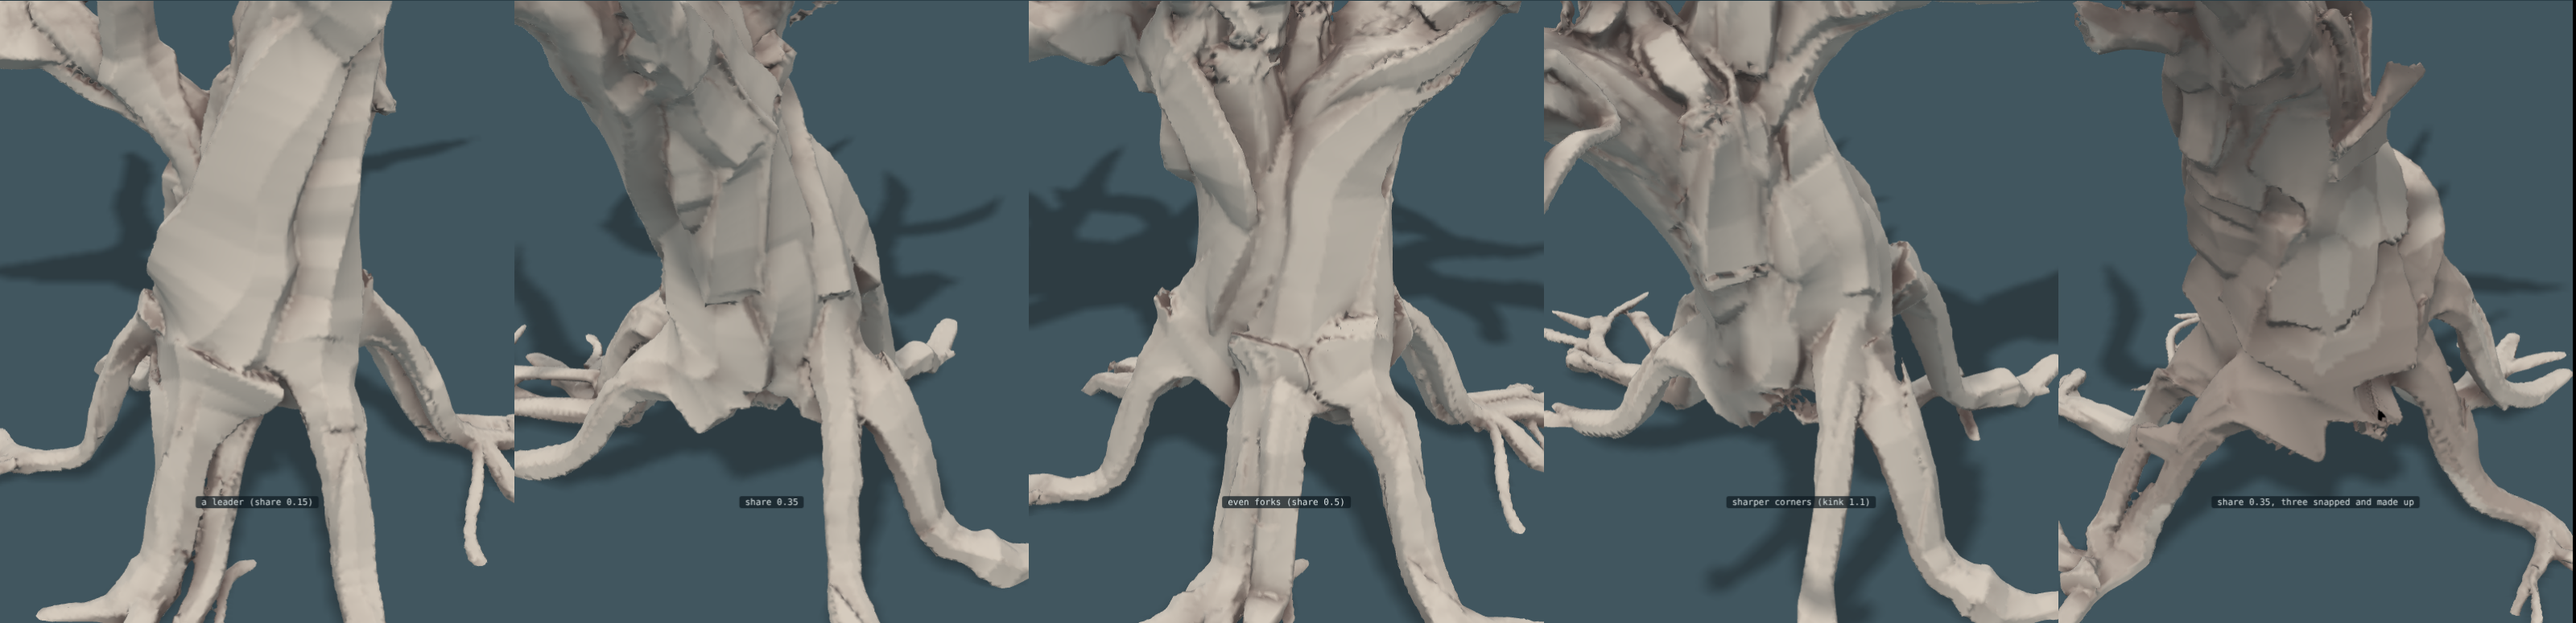
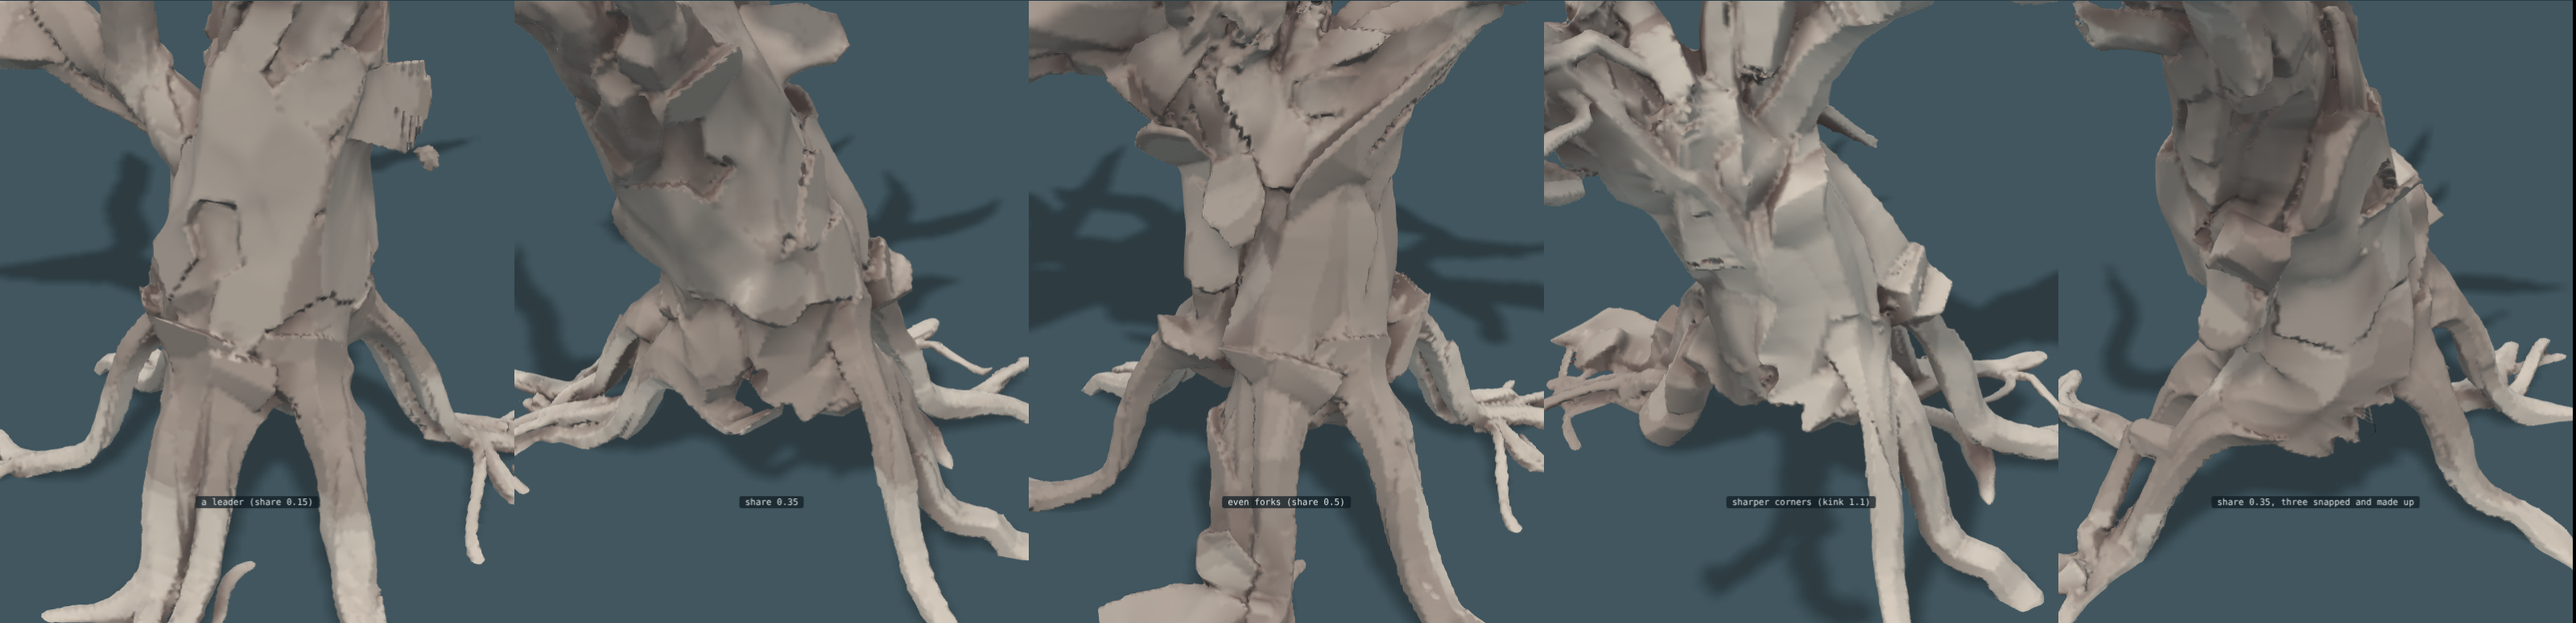
The knee pushed out, bark on the roots, and bark sized to the tree it grows on
Claude-Session: https://claude.ai/code/session_0192rgp75jGkttZXf7hEakip

diff --git a/sketch/page7.js b/sketch/page7.js
@@ -186,7 +186,8 @@
             e = Math.min(e, H(x - a[0] - bx * tt, y - a[1] - by * tt, z - a[2] - bz * tt) - (a[3] + (b[3] - a[3]) * tt)); } dd = smin(dd, e, 0.012); }
         return Math.max(dd, H(x - c[0], y - c[1], z - c[2]) - R * 0.99, (x - c[0]) * d[0] + (y - c[1]) * d[1] + (z - c[2]) * d[2] - 0.6 * R); };
       all.push({ f, C: [c], reach: [R + 0.02], layer: 4 }); count.scars++; }
-    const BK = recipe.bare || recipe.bark === 0 ? null : Object.assign({ cell: 0.075, stretch: 1.6, cover: 0.4, percolate: 0.985, cohere: 0.6, least: 10, thick: 0.02, peel: 0.08 }, recipe.bark || {}), rb = rng((recipe.seed || 1) + 123);
+    const bs = Math.min(1, (recipe.trunk && recipe.trunk[0] ? recipe.trunk[0][3] : 0.27) / 0.27);
+    const BK = recipe.bare || recipe.bark === 0 ? null : Object.assign({ cell: 0.075 * bs, stretch: 1.6, cover: 0.4, percolate: 0.985, cohere: 0.6, least: 10, thick: 0.02 * bs, peel: 0.08 }, recipe.bark || {}), rb = rng((recipe.seed || 1) + 123);
     // which pieces are near which place, so that only those are asked
     const cell = 0.12, grid = new Map(), key = (x, y, z) => (x + 64) * 16384 + (y + 64) * 128 + z + 64;
     const index = (i) => { const s = all[i], seen = new Set(); s.C.forEach((c, j) => { const m = s.reach[j] + 0.06;
@@ -199,7 +200,8 @@
       // tears: distance from a cell's point is counted short along its strand's direction. No point is nearer
       // another than a cell's width, so counted.
       const sp = BK.cell, st = BK.stretch, P = [], gs = Math.max(0.1, sp * st), sgrid = new Map(), skey = (x, y, z) => (Math.floor(x / gs) + 512) * 1048576 + (Math.floor(y / gs) + 512) * 1024 + Math.floor(z / gs) + 512, cand = [];
-      for (const q of t.strands) if (!q.thread) for (let i = q.root + 1; i < q.K - 1; i++) if (q.rho[i] > 0.012) { const bar = i < q.root + 5 || q.rho[i] <= 0.02 || q.far[i] <= 0.9 * q.rho[i] ? 1 : 0; const T = tan(q, i), sv = unit(cross(T, q.O[i])); for (const e of [-0.8, 0, 0.8]) { let n = [0, 1, 2].map((c) => q.O[i][c] * (q.far[i] + 0.8 * q.rho[i]) + sv[c] * e * q.rho[i]); const al = dot(n, T); n = unit(n.map((v, c) => v - T[c] * al)); cand.push([0, 1, 2].map((c) => q.X[i * 3 + c] + (q.O[i][c] * 0.8 + sv[c] * e) * q.rho[i]).concat(T, q.far[i] + q.rho[i], n, bar)); } }   // each with the way out from the middle of the wood there
+      for (const q of t.strands) if (!q.thread) for (let i = walked ? 1 : q.root + 1; i < q.K - 1; i++) if (q.rho[i] > 0.012 * bs) { const low = walked && i <= q.root;
+        const bar = (low ? i > q.root - 6 || q.rho[i] <= 0.016 * bs : i < q.root + 5 || q.rho[i] <= 0.02 * bs) || q.far[i] <= 0.9 * q.rho[i] ? 1 : 0; const T = tan(q, i), sv = unit(cross(T, q.O[i])); for (const e of [-0.8, 0, 0.8]) { let n = [0, 1, 2].map((c) => q.O[i][c] * (q.far[i] + 0.8 * q.rho[i]) + sv[c] * e * q.rho[i]); const al = dot(n, T); n = unit(n.map((v, c) => v - T[c] * al)); cand.push([0, 1, 2].map((c) => q.X[i * 3 + c] + (q.O[i][c] * 0.8 + sv[c] * e) * q.rho[i]).concat(T, q.far[i] + q.rho[i], n, bar, low ? 1 : 0)); } }   // each with the way out from the middle of the wood there
       for (let i = cand.length - 1; i > 0; i--) { const j = Math.floor(rb() * (i + 1)), x = cand[i]; cand[i] = cand[j]; cand[j] = x; }
       const dist = (c, x, y, z) => { const vx = x - c[0], vy = y - c[1], vz = z - c[2], al = vx * c[3] + vy * c[4] + vz * c[5]; return Math.sqrt(Math.max(0, vx * vx + vy * vy + vz * vz - al * al) + (al / st) ** 2); };
       const nearSeeds = (x, y, z, fn) => { const cx = Math.floor(x / gs), cy = Math.floor(y / gs), cz = Math.floor(z / gs); for (let a = -2; a <= 2; a++) for (let b = -2; b <= 2; b++) for (let c = -2; c <= 2; c++) { const g = sgrid.get((cx + a + 512) * 1048576 + (cy + b + 512) * 1024 + cz + c + 512); if (g) for (const i of g) fn(i); } };
@@ -207,16 +209,18 @@
       // all the same, barred from being switched on, so that wherever bark stops it stops on a boundary between two cells.
       for (const c of cand) { if (rooms.some((o) => away(o, c[0], c[1], c[2]) < o.room * 1.35 + 0.6 * sp * st) || wounds.some((v) => H(c[0] - v.c[0], c[1] - v.c[1], c[2] - v.c[2]) < v.r * 2 + 0.6 * sp * st)) c[10] = 1;
         let ok = true; nearSeeds(c[0], c[1], c[2], (i) => { if (ok && dist(c, P[i][0], P[i][1], P[i][2]) < sp) ok = false; }); if (!ok) continue; const k = skey(c[0], c[1], c[2]), g = sgrid.get(k); if (g) g.push(P.length); else sgrid.set(k, [P.length]); P.push(c); }
-      const N = P.length, barred = P.map((p) => p[10]), nb = P.map((p, i) => { const out = []; nearSeeds(p[0], p[1], p[2], (j) => { if (j !== i && dist(p, P[j][0], P[j][1], P[j][2]) < 1.8 * sp) out.push(j); }); return out; }), girth = Math.max(...P.map((p) => p[6])); for (let i = 0; i < N; i++) if (P[i][6] < 0.4 * girth) barred[i] = 1;   // and not where the wood is a thin limb or a tip
+      const N = P.length, barred = P.map((p) => p[10]), nb = P.map((p, i) => { const out = []; nearSeeds(p[0], p[1], p[2], (j) => { if (j !== i && dist(p, P[j][0], P[j][1], P[j][2]) < 1.8 * sp) out.push(j); }); return out; }), girth = Math.max(0.01, ...P.filter((p, i) => !p[11] && (!walked || !barred[i])).map((p) => p[6])), girthL = Math.max(0.01, ...P.filter((p, i) => p[11] && (!walked || !barred[i])).map((p) => p[6]));
+      const ref = (p) => (p[11] ? girthL : girth);   // a root is judged against the roots, a limb against the trunk
+      for (let i = 0; i < N; i++) if (P[i][6] < 0.4 * ref(P[i])) barred[i] = 1;   // and not where the wood is a thin limb or a tip
       // swathes. cohere runs from 0 (a swathe reaches out in arms: it prefers a cell touching only one of its own)
       // to 1 (it stays compact: it prefers a cell touching several).
       const free = barred.filter((b) => !b).length, on = new Uint8Array(N), tried = new Uint8Array(N), power = -3 + 7 * BK.cohere; let lit = 0, swathes = 0;
       for (let go = 0; go < 2000 && lit < BK.cover * free; go++) {
-        const start = Math.floor(rb() * N); if (on[start] || barred[start] || tried[start] || rb() > (P[start][6] / girth) ** 2 || nb[start].some((j) => on[j])) continue; tried[start] = 1;   // bark begins where the wood is broad far more often than on a limb
+        const start = Math.floor(rb() * N); if (on[start] || barred[start] || tried[start] || rb() > (P[start][6] / ref(P[start])) ** 2 || nb[start].some((j) => on[j])) continue; tried[start] = 1;   // bark begins where the wood is broad far more often than on a limb
         const mine = [start], inIt = new Set(mine);
         // (it spreads over broad wood sooner than out along a limb)
         while (lit + mine.length < BK.cover * free && rb() < BK.percolate) { const front = new Map(); for (const i of mine) for (const j of nb[i]) if (!inIt.has(j) && !on[j] && !barred[j]) front.set(j, (front.get(j) || 0) + 1); if (!front.size) break;
-          let total = 0; const w = []; for (const [j, c] of front) { const v = Math.pow(c, power) * (P[j][6] / girth) ** 2; w.push([j, v]); total += v; } let pick = rb() * total, chosen = w[0][0]; for (const [j, v] of w) { pick -= v; if (pick <= 0) { chosen = j; break; } } mine.push(chosen); inIt.add(chosen); }
+          let total = 0; const w = []; for (const [j, c] of front) { const v = Math.pow(c, power) * (P[j][6] / ref(P[j])) ** 2; w.push([j, v]); total += v; } let pick = rb() * total, chosen = w[0][0]; for (const [j, v] of w) { pick -= v; if (pick <= 0) { chosen = j; break; } } mine.push(chosen); inIt.add(chosen); }
         if (mine.length < BK.least) continue;   // not worth having
         for (const i of mine) on[i] = 1; lit += mine.length; swathes++; }
       count.bark = swathes; count.barkCells = lit; count.cells = N;

diff --git a/trees.js b/trees.js
@@ -30,7 +30,7 @@
   function frames(P) { let N = null; return P.map((p, i) => { const T = unit([0, 1, 2].map((k) => P[Math.min(P.length - 1, i + 1)][k] - P[Math.max(0, i - 1)][k])); N = unit((N || [1, 0, 0.2]).map((v, k, A) => v - T[k] * dot(A, T))); return [T, N, cross(T, N)]; }); }
 
   function grow(recipe) {
-    const P = Object.assign({ strands: 8, fill: 0.75, uneven: 0.5, twist: 0.5, taut: 0.3, stiff: 0.05, hug: 0.15, bind: 0.004, roots: 0.6, wind: 1.1, mixed: false, lmax: 0, set: 0, swell: 1, feet: 0, lap: 0, ground: null, down: 0.6, crease: 3.2, seam: 0.55, seams: 7, hem: 2.2, leg: 0.16, knuckle: 0.55, weave: 1, bridge: 2.2, toe: 0.13, tip: 0.26, snake: 1, air: 0.18, reach: 0.6, eyes: 0.4, hang: 0.3, bold: 0.35, brace: 0.12, bite: 1.8, forks: 1, dive: 0.12, slant: 0.75, clumps: 3, cling: 0.88, grip: 0.5, collar: 2, flare: 0.07, waste: 0.25, clear: 1, settle: 0, giving: 0.75, passes: 1500, ds: 0.035, seed: 1, trunk: [[0, 0.14, 0, 0.27], [0, 1.6, 0, 0.1]], limbs: [], orb: null }, recipe);
+    const P = Object.assign({ strands: 8, fill: 0.75, uneven: 0.5, twist: 0.5, taut: 0.3, stiff: 0.05, hug: 0.15, bind: 0.004, roots: 0.6, wind: 1.1, mixed: false, lmax: 0, set: 0, swell: 1, feet: 0, lap: 0, ground: null, down: 0.6, crease: 3.2, seam: 0.55, seams: 7, hem: 2.2, leg: 0.16, knuckle: 0.55, knee: 0.3, weave: 1, bridge: 2.2, toe: 0.13, tip: 0.26, snake: 1, air: 0.18, reach: 0.6, eyes: 0.4, hang: 0.3, bold: 0.35, brace: 0.12, bite: 1.8, forks: 1, dive: 0.12, slant: 0.75, clumps: 3, cling: 0.88, grip: 0.5, collar: 2, flare: 0.07, waste: 0.25, clear: 1, settle: 0, giving: 0.75, passes: 1500, ds: 0.035, seed: 1, trunk: [[0, 0.14, 0, 0.27], [0, 1.6, 0, 0.1]], limbs: [], orb: null }, recipe);
     // The ground, if the tree is given one: any function of a place that is how far it is outside the ground (less than
     // nothing inside). Without one the ground is the level at height 0, as it always was. (A grown tree is always given one, level if nothing else, so that its roots are walked.)
     const G = P.ground, gradG = G ? (x, y, z) => { const e = 0.008; return unit([G(x + e, y, z) - G(x - e, y, z), G(x, y + e, z) - G(x, y - e, z), G(x, y, z + e) - G(x, y, z - e)]); } : null, rootPts = [];
@@ -163,7 +163,14 @@
           if (r() > hold) swing = -swing;
           legLeft = Math.max(2, Math.round((onFace > 0.5 ? P.brace * (0.6 + 0.9 * r()) : P.leg * (0.75 + 1.1 * heavy) * (1 + 0.35 * Math.min(1, weave)) * (0.6 + 0.8 * r())) / ds));
           legHug = 0.4 + 0.3 * Math.sin(wob + TAU * gone / wl);
-          if (rx.length) corners.push([rx.length, Math.min(1, Math.abs(best.a) / 0.75)]);
+          if (rx.length) { const hard = Math.min(1, Math.abs(best.a) / 0.75);
+            // the wood piles on the outside of a bend: the knee is pushed out along the bisector, so it stands
+            // proud and the inside of the turn is drawn tight. Evenly round, a knuckle is a bead on a string.
+            const ob = [0, 1, 2].map((q) => tt[q] - h[q]), ol = H(ob[0], ob[1], ob[2]);
+            if (ol > 1e-6) { const e = rx[rx.length - 1], push = P.knee * rad * hard;
+              for (let q = 0; q < 3; q++) e[q] += ob[q] / ol * push;
+              for (let it = 0; it < 2; it++) { const gn = gradG(e[0], e[1], e[2]), gv = G(e[0], e[1], e[2]); for (let q = 0; q < 3; q++) e[q] += gn[q] * (want - gv); } }
+            corners.push([rx.length, hard]); }
           since = 0; }
         let nx = pos.map((v, k) => v + h[k] * ds);
         // it lets go only where the ground itself drops away ahead of it, and never while it is still coming down

diff --git a/LOG.md b/LOG.md
@@ -3889,3 +3889,52 @@ Wrong, or not there:
 
       page 9's lines, from here   2ecabc8f7b 9b5ddcdc69 b9c92f8e4f a540462735 46492b392d
       page 7's four, unchanged    e387ada36c 17dc01b122 a61f129179 b2eac9db5f
+
+## The knee pushed out, and bark on the roots
+
+Three changes, one small and two that had been hiding in plain sight.
+
+**The knee.** A knuckle swelled evenly, which is a bead on a string. The
+corner's vertex is now pushed out along the bisector of the exterior angle,
+by a little over a third of a radius at a hard corner, so the wood piles on
+the outside of a bend and the inside is drawn tight. It is a modest effect
+-- half of what I hoped -- but it is the right half: a knee rather than a
+bead.
+
+**Bark was never on the roots at all.** The cells it is made of were seeded
+from above the foot only. Every root on every tree was bare wood against a
+plated trunk, which is half of why a root read as something peeled, and I
+had been looking for the cause in the shape for two rounds. Roots carry
+bark now, barred within six steps of the foot (the flare stays clean) and
+off wood too thin to hold it.
+
+**And the grown trees had almost no bark anywhere.** Counting the cells
+found 108 on a tree of page 11, of which 10 to 14 were lit -- one swathe,
+or on the cliff tree none at all. Two causes, both the same mistake:
+
+- The cell size, the sheet's thickness and what counts as wood too thin to
+  carry bark are absolute numbers, tuned against a trunk of radius 0.27.
+  A grown tree's trunk is 0.16 to 0.25, so nearly every place on it was
+  "too thin". They scale with the trunk's own radius now, and never up, so
+  the trees the numbers were set on are untouched.
+- What counts as broad wood was measured over *all* the cells, and the
+  broadest cells are on the foot -- which is barred, being the flare. The
+  foot set a mark that the rest of the tree could not reach, and barred
+  itself out of the measurement it had set. It is measured over the wood
+  that may actually carry bark now.
+
+      bark cells on a page 11 tree, lit   10-14  ->  17-46
+      page 7's four                       pixel for pixel as they were
+
+Page 7 is held to the old reading of both rules, as it is held to the old
+everything. That is three rules now that are gated on whether a tree was
+given ground (the beam pieces, root bark, and this), which is a fair
+description of what separates those four trees from the grown ones, but it
+is a seam in the code and worth saying out loud.
+
+Wrong, or not there:
+- The bark on a root is the trunk's bark at a smaller size. A root's bark
+  is a different stuff: thinner, stretched along, and it goes scaly where
+  the root enters the ground.
+- Bark still stops at a hard edge on open wood. Where a swathe ends on a
+  root there is no reason for it to end there.
